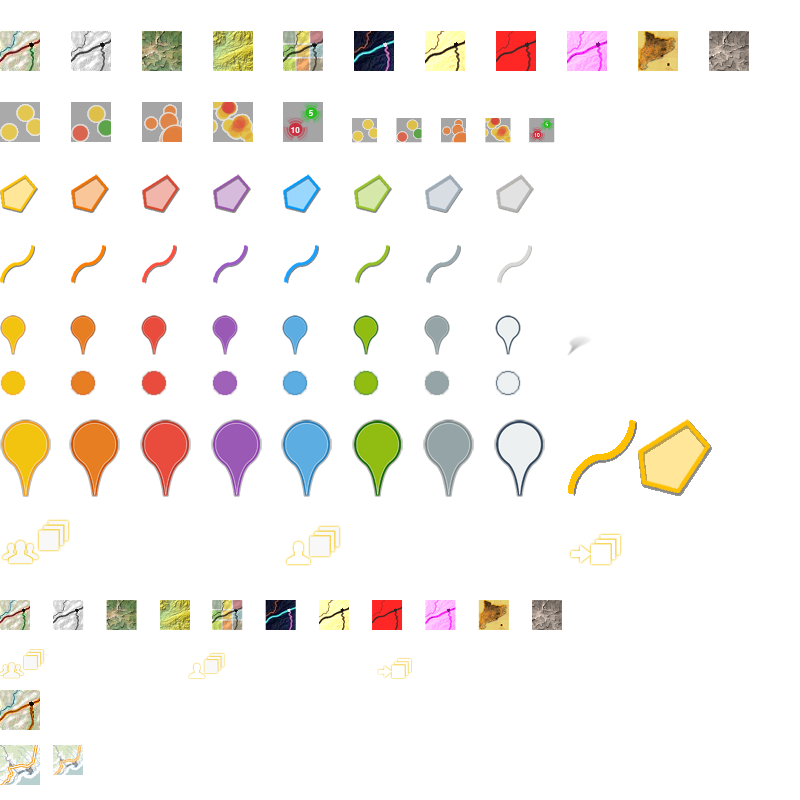
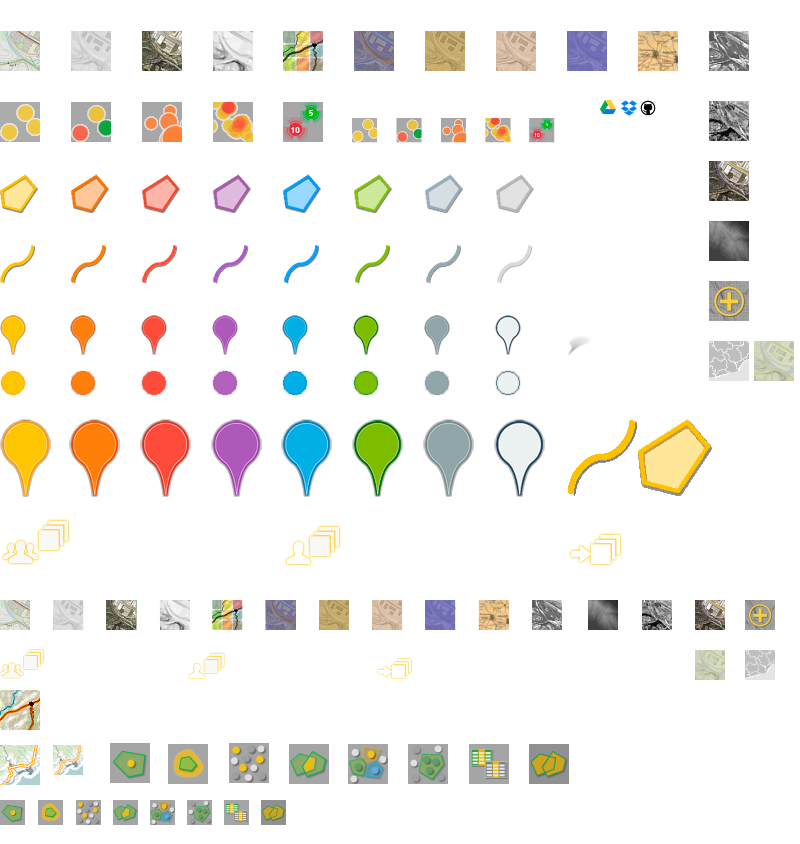
canvis noves icones

diff --git a/geocatweb/js/geocat.mapa.altres-fonts-dades.js b/geocatweb/js/geocat.mapa.altres-fonts-dades.js
@@ -195,7 +195,7 @@ function addControlAltresFontsDades() {
 		jQuery('.modal').modal('hide');
 		$('#dialog_dades_ex').modal('show');
 		$('a[href^="#id_do').click();
-		jQuery('#id_do').html(_htmlDadesObertes.join(' ')+'<span class="label label-font">Font: <a target="_blank" href="http://www20.gencat.cat/portal/site/dadesobertes">Dades Obertes Gencat</a></span>');
+		jQuery('#id_do').html(_htmlDadesObertes.join(' ')+'<span class="label label-font">Font: <a target="_blank" href="http://www20.gencat.cat/portal/site/dadesobertes">Dades obertes Gencat</a></span>');
 
 		jQuery("#id_do a.label-explora").on('click', function(e) {
 			if(e.target.id !="id_do"){
@@ -207,7 +207,7 @@ function addControlAltresFontsDades() {
 
 			if (tbA == "#id_do") {
 				jQuery(tbA).empty();
-				jQuery(tbA).html(_htmlDadesObertes.join(' ')+'<span class="label label-font">Font: <a target="_blank" href="http://www20.gencat.cat/portal/site/dadesobertes">Dades Obertes Gencat</a></span>');
+				jQuery(tbA).html(_htmlDadesObertes.join(' ')+'<span class="label label-font">Font: <a target="_blank" href="http://www20.gencat.cat/portal/site/dadesobertes">Dades obertes Gencat</a></span>');
 
 				jQuery(tbA+" a.label-explora").on('click', function(e) {
 					if(e.target.id !="id_do"){
@@ -720,8 +720,8 @@ function addHtmlModalDadesExt(){
 	'				</div>'+
 	'				<div class="modal-body">'+
 	'					<ul class="nav nav-tabs etiqueta">'+
-	'						<li><a href="#id_do" lang="ca" data-toggle="tab">Dades Obertes</a></li>'+
-	'						<li><a href="#id_ofi" lang="ca" data-toggle="tab">Dades Oficials</a></li>'+
+	'						<li><a href="#id_do" lang="ca" data-toggle="tab">Dades obertes</a></li>'+
+	'						<li><a href="#id_ofi" lang="ca" data-toggle="tab">Dades oficials</a></li>'+
 	//'						<li><a href="#id_xs" lang="ca" data-toggle="tab">Xarxes socials</a></li>'+
 	'						<li><a href="#id_srvw" lang="ca" data-toggle="tab">Serveis WMS</a></li>'+
 	'						<li><a href="#id_capes_instamaps" lang="ca" data-toggle="tab">Capes reutilitzables</a></li>'+

diff --git a/geocatweb/js/geocat.mapa.background.js b/geocatweb/js/geocat.mapa.background.js
@@ -72,8 +72,8 @@ function creaPopOverMesFonsColor() {
 				+ '<div style="opacity:0.7" id="topoGrisMap" lang="ca" data-toggle="tooltip" title="Topogràfic gris" data-lang-title="Topogràfic gris" class="div_fons_2"></div>'
 				+ '<div style="opacity:0.7" id="nit" lang="ca" data-toggle="tooltip" title="Nit" data-lang-title="Nit" class="div_fons_6"></div>'
 				+ '<div style="opacity:0.7" id="sepia" lang="ca" data-toggle="tooltip" title="Sèpia" data-lang-title="Sèpia" class="div_fons_7"></div>'
-				+ '<div style="opacity:0.7" id="zombie" lang="ca" data-toggle="tooltip" title="Zombie" data-lang-title="Zombie" class="div_fons_8"></div>'
-				+ '<div style="opacity:0.7" id="orquidea" lang="ca" data-toggle="tooltip" title="Orquídea" data-lang-title="Orquídea" class="div_fons_9"></div>'
+				+ '<div style="opacity:0.7" id="zombie" lang="ca" data-toggle="tooltip" title="Zombie" data-lang-title="Coure" class="div_fons_8"></div>'
+				+ '<div style="opacity:0.7" id="orquidea" lang="ca" data-toggle="tooltip" title="Orquídea" data-lang-title="Blue print" class="div_fons_9"></div>'
 				+ '<div style="opacity:0.7" id="naturalMap" lang="ca" data-toggle="tooltip" title="Natural" data-lang-title="Natural" class="div_fons_17"></div>'
 				+ '<div style="opacity:0.7" id="divadminMap" lang="ca" data-toggle="tooltip" title="Divisions administratives" data-lang-title="Divisions administratives" class="div_fons_16"></div>'
 				+ '</div>',

diff --git a/geocatweb/js/instamaps.visor.visor-2.0.0.js b/geocatweb/js/instamaps.visor.visor-2.0.0.js
@@ -790,7 +790,8 @@
 		
 		loadErrorPage: function(){
 			//TODO redirect a la pagina de error 404
-			window.location.href = paramUrl.galeriaPage;
+			alert(1);
+			//window.location.href = paramUrl.galeriaPage;
 		},
 		
 		loadLoginPage: function(){
@@ -935,6 +936,8 @@
 				mapacolaboratiu: _mapacolaboratiu,
 				uid: _uid	
 			};
+			
+			
 			getCacheMapByBusinessId(data).then(function(results){
 				if (results.status == "ERROR"){
 					self.loadErrorPage();
@@ -1164,6 +1167,7 @@
 				self.resizeMap();
 			},150));
 			
+			
 			if(self.businessid){
 				self.loadMapConfig();
 				_map.on('loadconfig', self._drawVisor, self);
@@ -1174,6 +1178,8 @@
 					}
 					self.drawMap().resizeMap().drawControls()._drawVisorSimple()._hideLoading();
 				}else{
+					
+					
 					self.loadErrorPage();
 				}
 			}

diff --git a/geocatweb/js/language/es.js b/geocatweb/js/language/es.js
@@ -184,7 +184,8 @@ jquery_lang_js.prototype.lang.es = {
 ,"Dades en temps real":"Datos en tiempo real"
 ,"Dades externes":"Datos externos"
 ,"dades obertes de la Generalitat de Catalunya.":"datos abiertos de la Generalitat de Catalunya."
-,"Dades Obertes":"Datos Abiertos"
+,"Dades obertes":"Datos abiertos"
+,"Dades oficials":"Datos oficiales"
 ,"Pla Cartogràfic de Catalunya-INSPIRE":"Pla Cartogràfic de Catalunya-INSPIRE"
 ,"Geoportal INSPIRE":"Geoportal INSPIRE"
 ,"Defineix com a destí":"Define como destino"	

diff --git a/geocatweb/js/language/en.js b/geocatweb/js/language/en.js
@@ -184,7 +184,8 @@ jquery_lang_js.prototype.lang.en = {
 ,"Dades en temps real":"Real time data"
 ,"Dades externes":"External data"
 ,"dades obertes de la Generalitat de Catalunya.":"open data of Generalitat de Catalunya."
-,"Dades Obertes":"Open data"
+,"Dades obertes":"Open data"
+,"Dades oficials":"Goverment datasets"
 ,"Pla Cartogràfic de Catalunya-INSPIRE":"Pla Cartogràfic de Catalunya-INSPIRE"
 ,"Geoportal INSPIRE":"INSPIRE Geoportal"
 ,"Defineix com a destí":"Start from this location"	

diff --git a/geocatweb/js/instamaps.geolocal.widgets.meteo.js b/geocatweb/js/instamaps.geolocal.widgets.meteo.js
@@ -18,7 +18,7 @@
         cache: function(){
         	var that = this;
         	that.container = $(that.containerId);
-        	$.get("dades/municipisAemet.json",function(data){
+        	$.get("/geocatweb/dades/municipisAemet.json",function(data){
         		that.municipis = data;
         	});
         },

diff --git a/geocatweb/js/geocat.mapa.legend.js b/geocatweb/js/geocat.mapa.legend.js
@@ -206,7 +206,7 @@ function addLayerToLegend(layer, count, layersHtml, layerIdParent){
 				'</div>';		
 		html+='</div>';	
 		
-	//Dades Obertes y JSON
+	//Dades obertes y JSON
 	}else if(layer.options.tipus == t_dades_obertes || layer.options.tipus == t_json){//es un punt
 		
 		

diff --git a/geocatweb/js/instamaps.geolocal.listViewMunicipis.js b/geocatweb/js/instamaps.geolocal.listViewMunicipis.js
@@ -15,7 +15,7 @@
         
         cache: function(){
         	var that = this;
-        	$.get("dades/municipis4326.json",function(data){
+        	$.get("/geocatweb/dades/municipis4326.json",function(data){
         		that.municipis = data;
         	});
         },

diff --git a/geocatweb/js/instamaps.geolocal.selectMunicipis.js b/geocatweb/js/instamaps.geolocal.selectMunicipis.js
@@ -14,7 +14,7 @@
         
         cache: function(){
         	var that = this;
-        	$.get("dades/municipis4326.json",function(data){
+        	$.get("/geocatweb/dades/municipis4326.json",function(data){
         		that.municipis = data;
         	});
         },

diff --git a/geocatweb/js/instamaps.visor.app-1.0.0.js b/geocatweb/js/instamaps.visor.app-1.0.0.js
@@ -49,6 +49,10 @@ jQuery(document).ready(function() {
 	
 	visorOptions.tipusUser = tipus_user;
 	
+	
 	var visor = Visor(visorOptions).draw();
 
+	console.info(visorOptions);
+	
 }); // Final document ready
+

diff --git a/geocatweb/js/geocat.mapa.dades-obertes.js b/geocatweb/js/geocat.mapa.dades-obertes.js
@@ -1,5 +1,5 @@
 /**
- * Gestió de la creació i carrega de capes de Dades Obertes
+ * Gestió de la creació i carrega de capes de Dades obertes
  */
 
 var _htmlDadesObertes = [];
